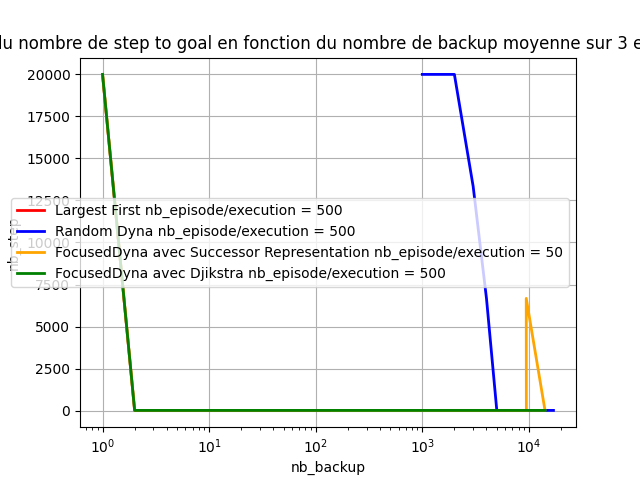
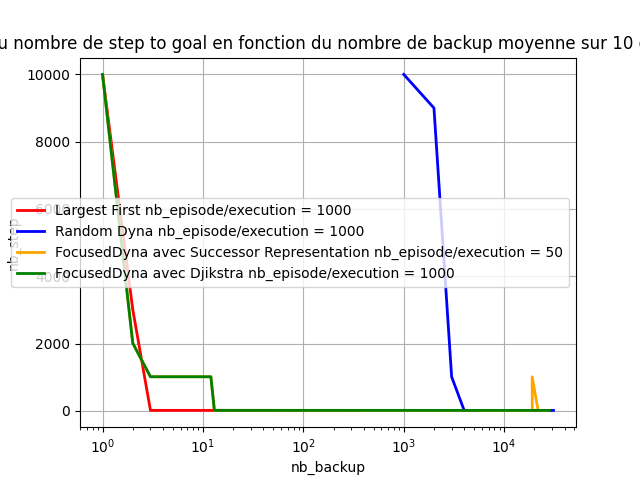
minor update

diff --git a/prma/fig-8.py b/prma/fig-8.py
@@ -93,14 +93,13 @@ plt.figure(figsize=(15,10))
 
 plt.text(0.2,0.5, f" $\epsilon$ : {config.main.epsilon}\n $\delta$ : {config.main.delta}\n α : {config.main.alpha}\n $\gamma$ : {config.main.gamma}\n max_step : {config.main.max_step}\n nb_episode : {config.main.nb_episode}\n labyrinthe : {laby}", fontsize =11)
     
-plt.plot(moyenne_par_indice(all_backups_lg), moyenne_par_indice(all_steps_lg), color='red', linewidth=2, label = f"Largest First nb_episode/execution = {QueueDyna.episode}")
+plt.plot(moyenne_par_indice(all_backups_lg), moyenne_par_indice(all_steps_lg), color='red', linewidth=2, label = f"LF {QueueDyna.episode} episodes")
 
-plt.plot(moyenne_par_indice(all_backups_rd), moyenne_par_indice(all_steps_rd) ,color='blue', linewidth=2, label = f"Random Dyna nb_episode/execution = {RDyna.episode}")
+plt.plot(moyenne_par_indice(all_backups_rd), moyenne_par_indice(all_steps_rd) ,color='blue', linewidth=2, label = f"RD {RDyna.episode} episodes")
 
-# plt.plot(moyenne_par_indice(all_backups_srfd), moyenne_par_indice(all_steps_srfd), color='orange',linestyle='--', linewidth=2, label = f"FocusedDyna avec Successor Representation nb_episode/execution = {SR.episode}")
+plt.plot(moyenne_par_indice(all_backups_srfd), moyenne_par_indice(all_steps_srfd), color='orange', linewidth=2, label = f"SRFC {SR.episode} episodes")
 
-
-plt.plot(moyenne_par_indice(all_backups_dfd), moyenne_par_indice(all_steps_dfd), color='green', linewidth=2, label = f"FocusedDyna avec Djikstra nb_episode/execution = {Djikstra.episode}")
+plt.plot(moyenne_par_indice(all_backups_dfd), moyenne_par_indice(all_steps_dfd), color='green', linewidth=2, label = f"DFD {Djikstra.episode} episodes")
 
 plt.title(f'Courbe du nombre de step to goal en fonction du nombre de backup moyenne sur {nb_exec} executions ')
 plt.xlabel('nb_backup')

diff --git a/prma/fig-10.py b/prma/fig-10.py
@@ -89,13 +89,13 @@ for i in range(nb_exec):
     all_backups_srfd.append(nb_backup)
 
     
-plt.plot(moyenne_par_indice(all_backups_lg), moyenne_par_indice(all_steps_lg), color='red', linewidth=2, label = f"Largest First nb_episode/execution = {QueueDyna.episode}")
+plt.plot(moyenne_par_indice(all_backups_lg), moyenne_par_indice(all_steps_lg), color='red', linewidth=2, label = f"LF {QueueDyna.episode} episodes")
 
-plt.plot(moyenne_par_indice(all_backups_rd), moyenne_par_indice(all_steps_rd) ,color='blue', linewidth=2, label = f"Random Dyna nb_episode/execution = {RDyna.episode}")
+plt.plot(moyenne_par_indice(all_backups_rd), moyenne_par_indice(all_steps_rd) ,color='blue', linewidth=2, label = f"RD {RDyna.episode} episodes")
 
-plt.plot(moyenne_par_indice(all_backups_srfd), moyenne_par_indice(all_steps_srfd), color='orange', linewidth=2, label = f"FocusedDyna avec Successor Representation nb_episode/execution = {SR.episode}")
+plt.plot(moyenne_par_indice(all_backups_srfd), moyenne_par_indice(all_steps_srfd), color='orange', linewidth=2, label = f"SRFC {SR.episode} episodes")
 
-plt.plot(moyenne_par_indice(all_backups_dfd), moyenne_par_indice(all_steps_dfd), color='green', linewidth=2, label = f"FocusedDyna avec Djikstra nb_episode/execution = {Djikstra.episode}")
+plt.plot(moyenne_par_indice(all_backups_dfd), moyenne_par_indice(all_steps_dfd), color='green', linewidth=2, label = f"DFD {Djikstra.episode} episodes")
 
 
 

diff --git a/prma/fig-supplementary.py b/prma/fig-supplementary.py
@@ -89,13 +89,13 @@ for i in range(nb_exec):
     all_backups_srfd.append(nb_backup)
 
     
-plt.plot(moyenne_par_indice(all_backups_lg), moyenne_par_indice(all_steps_lg), color='red', linewidth=2, label = f"Largest First nb_episode/execution = {QueueDyna.episode}")
+plt.plot(moyenne_par_indice(all_backups_lg), moyenne_par_indice(all_steps_lg), color='red', linewidth=2, label = f"LF {QueueDyna.episode} episodes")
 
-plt.plot(moyenne_par_indice(all_backups_rd), moyenne_par_indice(all_steps_rd) ,color='blue', linewidth=2, label = f"Random Dyna nb_episode/execution = {RDyna.episode}")
+plt.plot(moyenne_par_indice(all_backups_rd), moyenne_par_indice(all_steps_rd) ,color='blue', linewidth=2, label = f"RD {RDyna.episode} episodes")
 
-plt.plot(moyenne_par_indice(all_backups_srfd), moyenne_par_indice(all_steps_srfd), color='orange', linewidth=2, label = f"FocusedDyna avec Successor Representation nb_episode/execution = {SR.episode}")
+plt.plot(moyenne_par_indice(all_backups_srfd), moyenne_par_indice(all_steps_srfd), color='orange', linewidth=2, label = f"SRFC {SR.episode} episodes")
 
-plt.plot(moyenne_par_indice(all_backups_dfd), moyenne_par_indice(all_steps_dfd), color='green', linewidth=2, label = f"FocusedDyna avec Djikstra nb_episode/execution = {Djikstra.episode}")
+plt.plot(moyenne_par_indice(all_backups_dfd), moyenne_par_indice(all_steps_dfd), color='green', linewidth=2, label = f"DFD {Djikstra.episode} episodes")
 
 
 

diff --git a/prma/assets/maze.py b/prma/assets/maze.py
@@ -3,7 +3,7 @@ from assets.RewardWrapper import RewardWrapper
 from omegaconf import OmegaConf
 
 import sys
-sys.path.append('../')   # iads doit être dans le répertoire père du répertoire courant !
+sys.path.append('../')   
 
 # Load YAML config file as DictConfig
 config = OmegaConf.load("setup/config.yaml")
